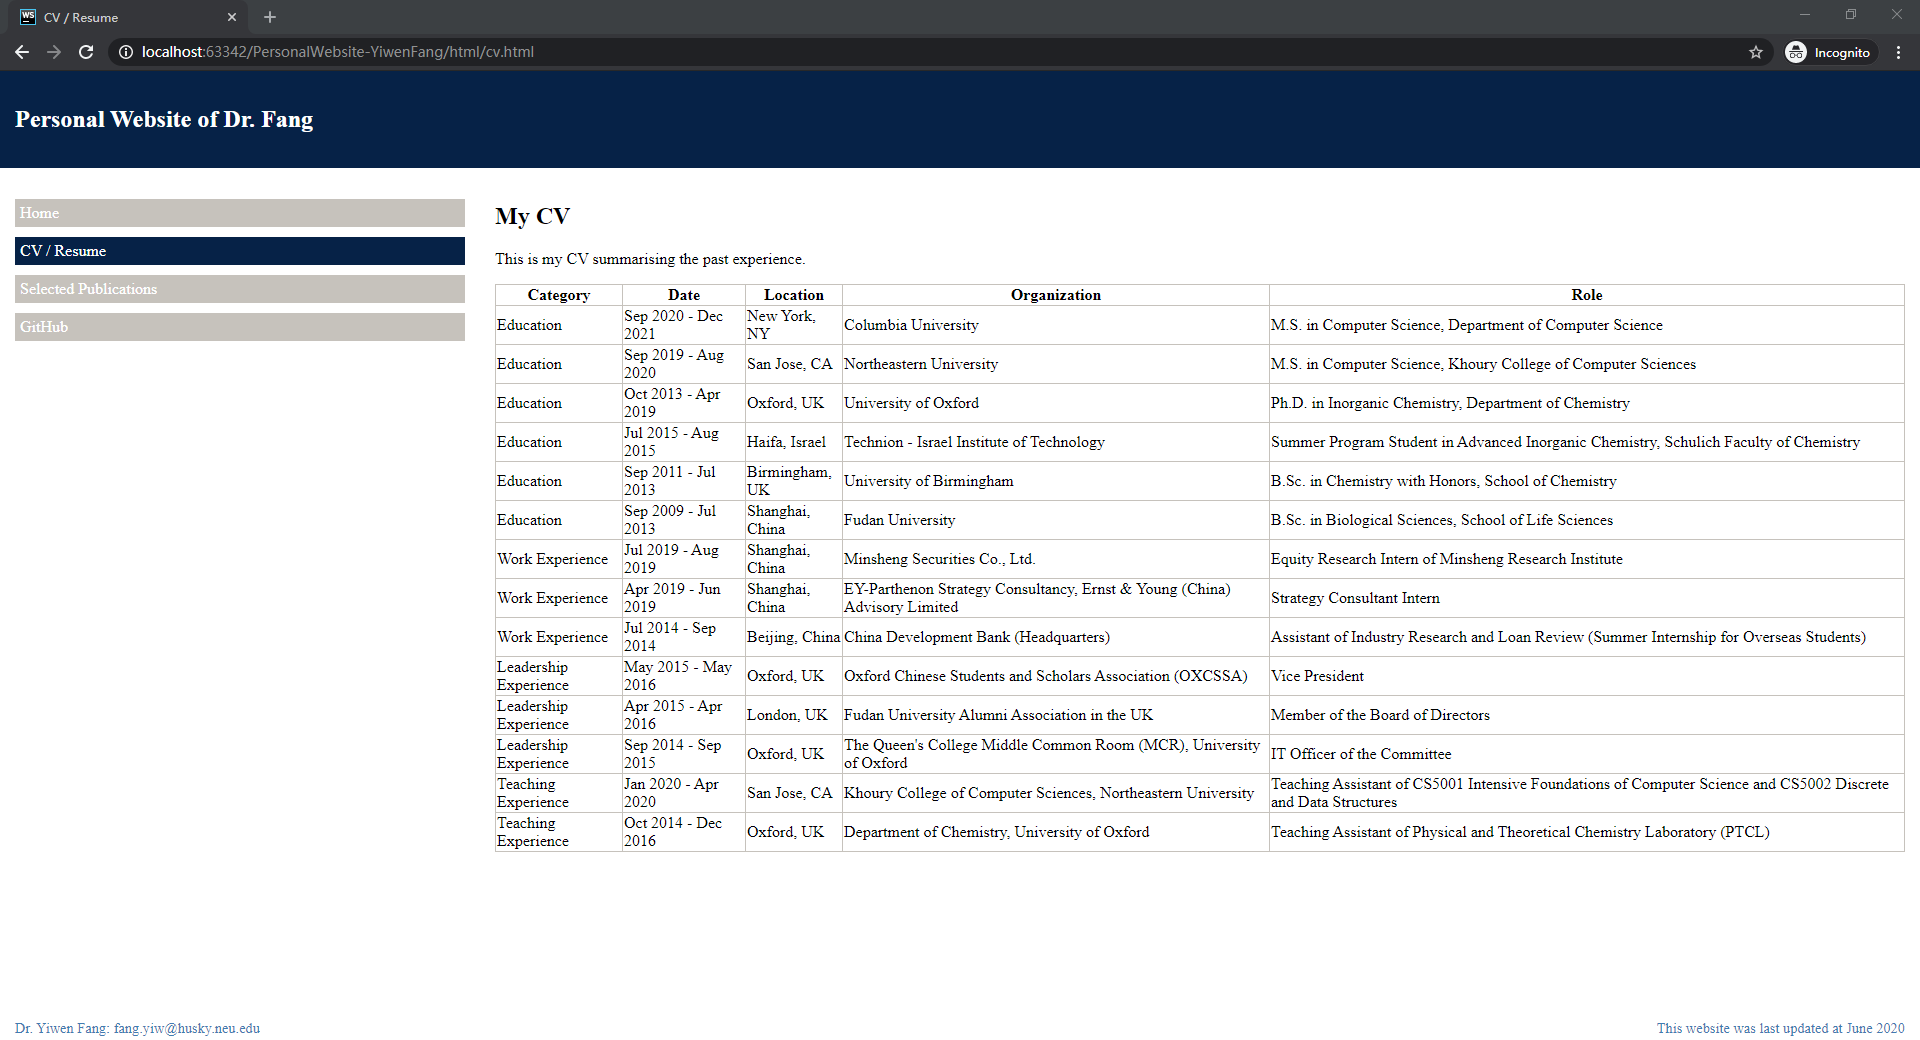
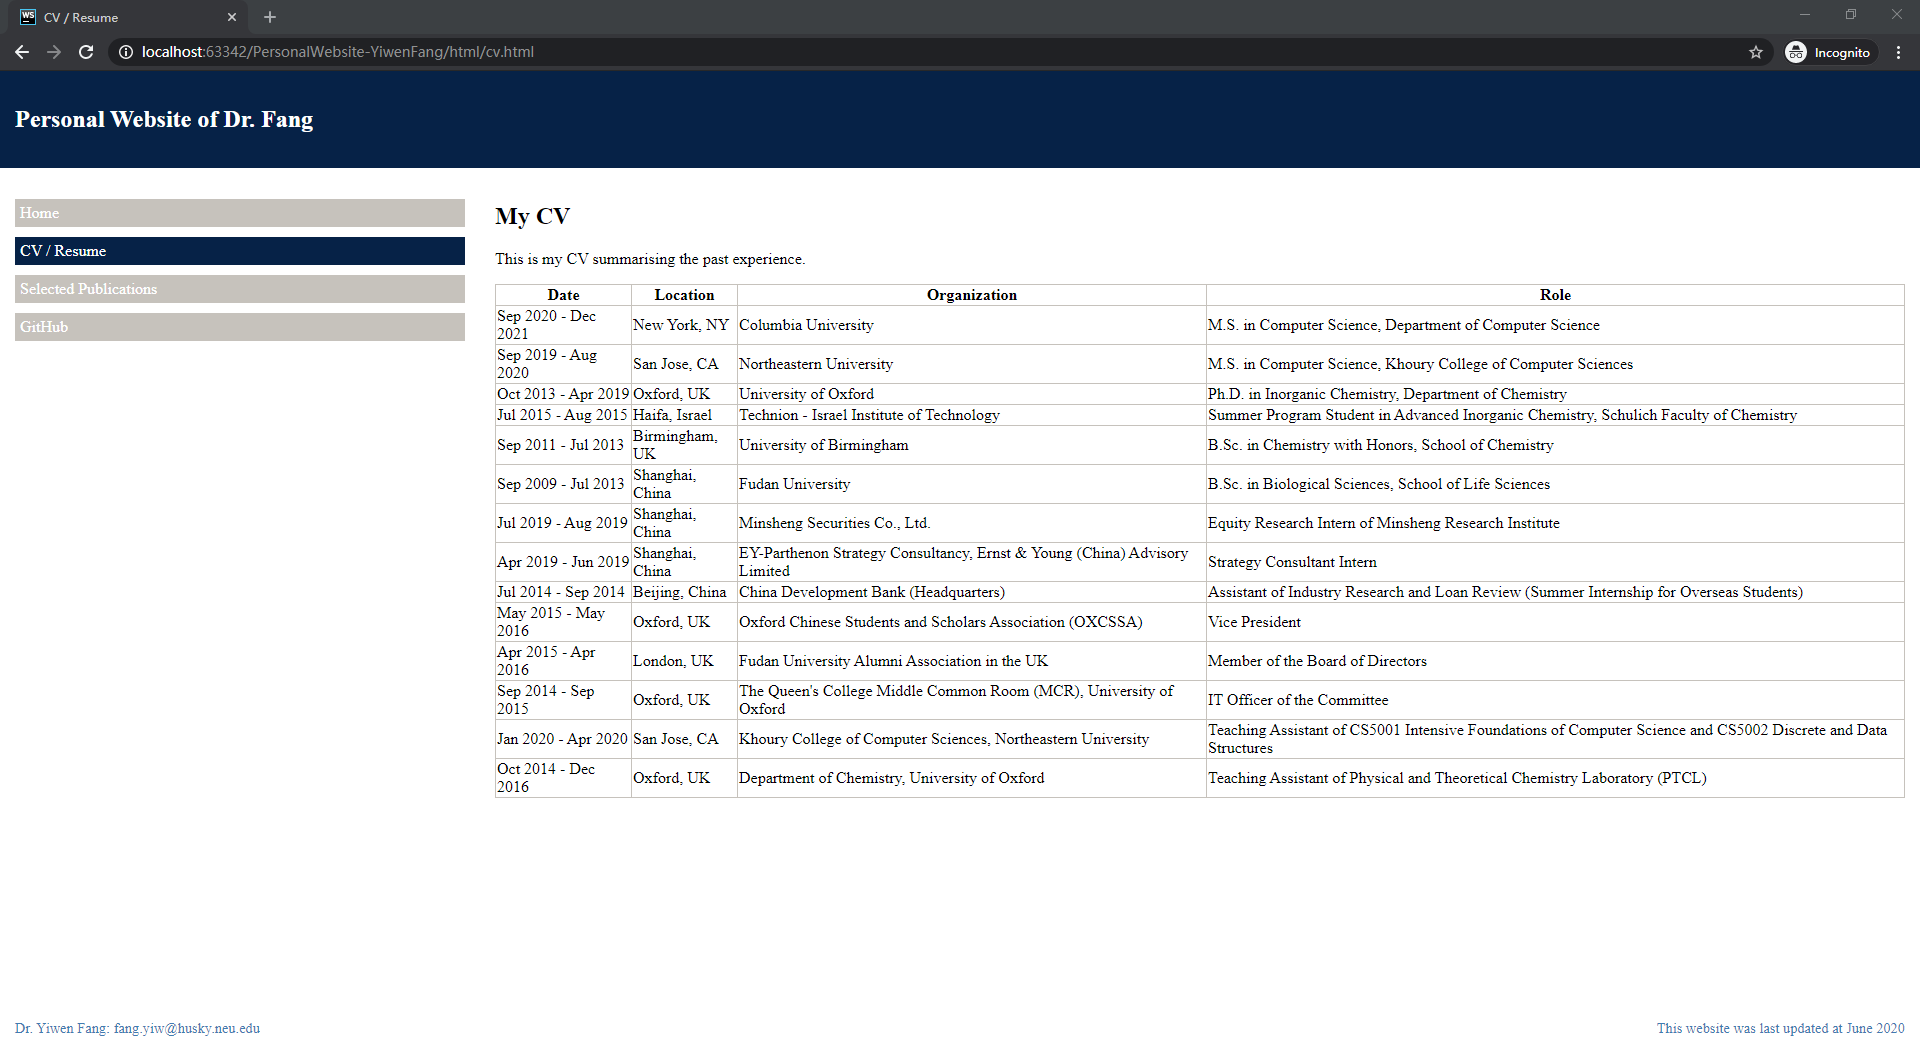
Update text in cv.html, end Project 1

Changed region(s): [[0.25, 0.2769, 1.0, 0.8308]]

diff --git a/html/cv.html b/html/cv.html
@@ -32,7 +32,6 @@
         <table>
           <thead>
           <tr>
-            <th>Category</th>
             <th>Date</th>
             <th>Location</th>
             <th>Organization</th>
@@ -41,91 +40,78 @@
           </thead>
           <tbody>
           <tr>
-            <td>Education</td>
             <td>Sep 2020 - Dec 2021</td>
             <td>New York, NY</td>
             <td>Columbia University</td>
             <td>M.S. in Computer Science, Department of Computer Science</td>
           </tr>
           <tr>
-            <td>Education</td>
             <td>Sep 2019 - Aug 2020</td>
             <td>San Jose, CA</td>
             <td>Northeastern University</td>
             <td>M.S. in Computer Science, Khoury College of Computer Sciences</td>
           </tr>
           <tr>
-            <td>Education</td>
             <td>Oct 2013 - Apr 2019</td>
             <td>Oxford, UK</td>
             <td>University of Oxford</td>
             <td>Ph.D. in Inorganic Chemistry, Department of Chemistry</td>
           </tr>
           <tr>
-            <td>Education</td>
             <td>Jul 2015 - Aug 2015</td>
             <td>Haifa, Israel</td>
             <td>Technion - Israel Institute of Technology</td>
             <td>Summer Program Student in Advanced Inorganic Chemistry, Schulich Faculty of Chemistry</td>
           </tr>
           <tr>
-            <td>Education</td>
             <td>Sep 2011 - Jul 2013</td>
             <td>Birmingham, UK</td>
             <td>University of Birmingham</td>
             <td>B.Sc. in Chemistry with Honors, School of Chemistry</td>
           </tr>
           <tr>
-            <td>Education</td>
             <td>Sep 2009 - Jul 2013</td>
             <td>Shanghai, China</td>
             <td>Fudan University</td>
             <td>B.Sc. in Biological Sciences, School of Life Sciences</td>
           </tr>
           <tr>
-            <td>Work Experience</td>
             <td>Jul 2019 - Aug 2019</td>
             <td>Shanghai, China</td>
             <td>Minsheng Securities Co., Ltd.</td>
             <td>Equity Research Intern of Minsheng Research Institute</td>
           </tr>
           <tr>
-            <td>Work Experience</td>
             <td>Apr 2019 - Jun 2019</td>
             <td>Shanghai, China</td>
             <td>EY-Parthenon Strategy Consultancy, Ernst & Young (China) Advisory Limited</td>
             <td>Strategy Consultant Intern</td>
           </tr>
           <tr>
-            <td>Work Experience</td>
             <td>Jul 2014 - Sep 2014</td>
             <td>Beijing, China</td>
             <td>China Development Bank (Headquarters)</td>
             <td>Assistant of Industry Research and Loan Review (Summer Internship for Overseas Students)</td>
           </tr>
           <tr>
-            <td>Leadership Experience</td>
             <td>May 2015 - May 2016</td>
             <td>Oxford, UK</td>
             <td>Oxford Chinese Students and Scholars Association (OXCSSA)</td>
             <td>Vice President</td>
           </tr>
           <tr>
-            <td>Leadership Experience</td>
             <td>Apr 2015 - Apr 2016</td>
             <td>London, UK</td>
             <td>Fudan University Alumni Association in the UK</td>
             <td>Member of the Board of Directors</td>
           </tr>
           <tr>
-            <td>Leadership Experience</td>
             <td>Sep 2014 - Sep 2015</td>
             <td>Oxford, UK</td>
             <td>The Queen's College Middle Common Room (MCR), University of Oxford</td>
             <td>IT Officer of the Committee</td>
           </tr>
           <tr>
-            <td>Teaching Experience</td>
             <td>Jan 2020 - Apr 2020</td>
             <td>San Jose, CA</td>
             <td>Khoury College of Computer Sciences, Northeastern University</td>
@@ -134,7 +120,6 @@
             </td>
           </tr>
           <tr>
-            <td>Teaching Experience</td>
             <td>Oct 2014 - Dec 2016</td>
             <td>Oxford, UK</td>
             <td>Department of Chemistry, University of Oxford</td>
